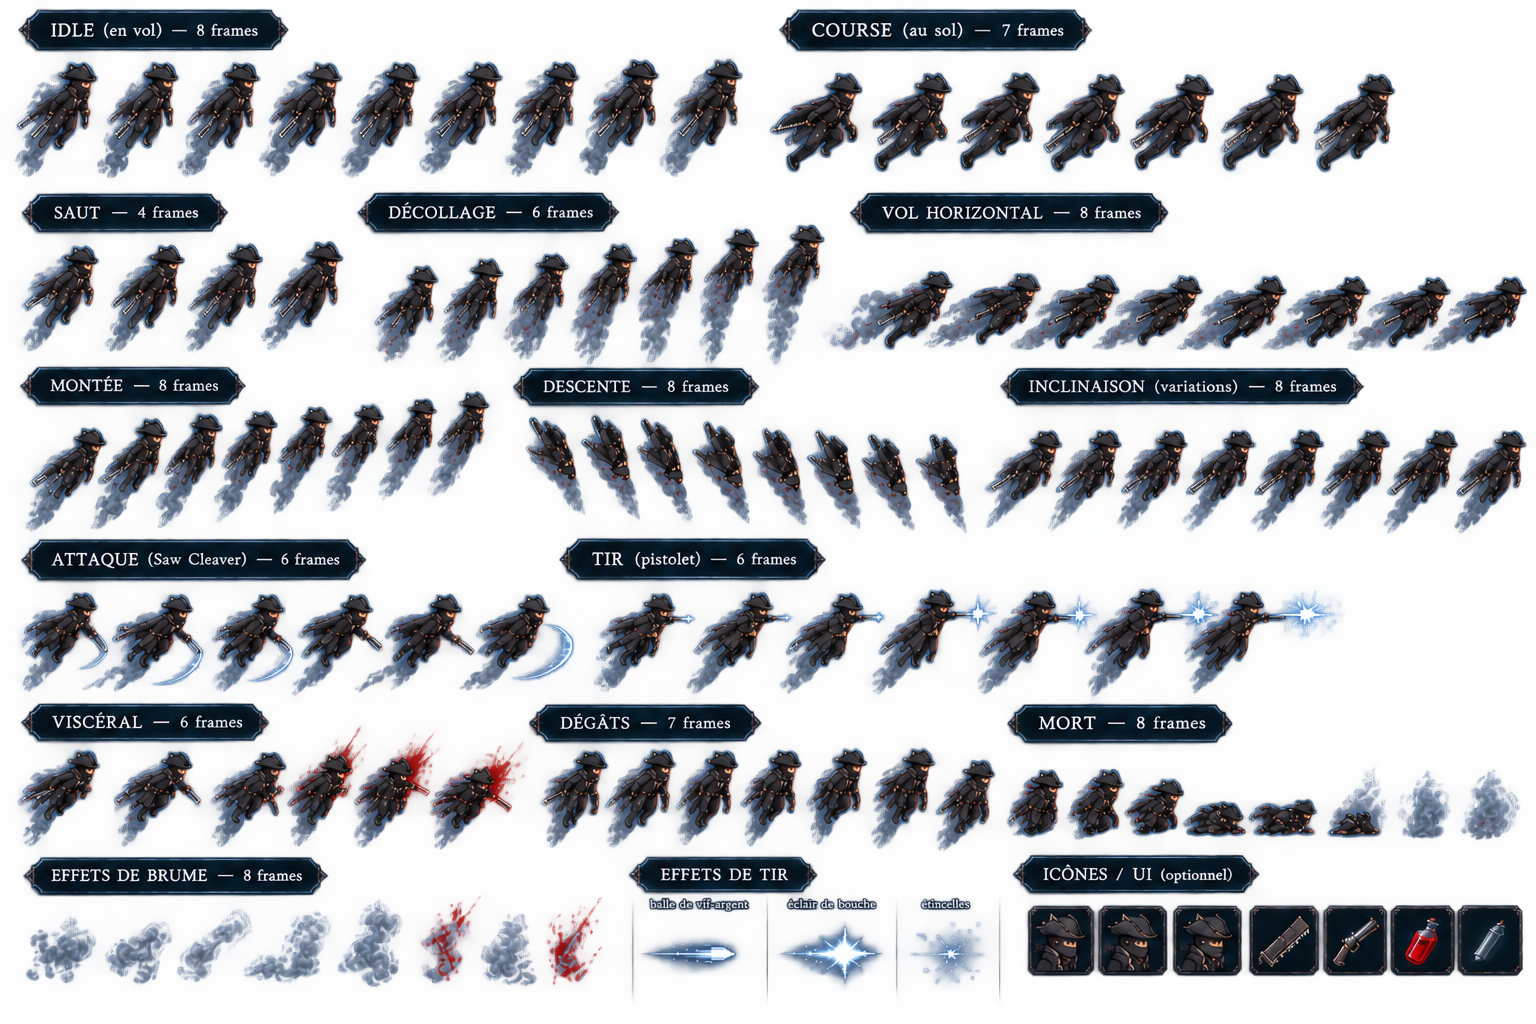
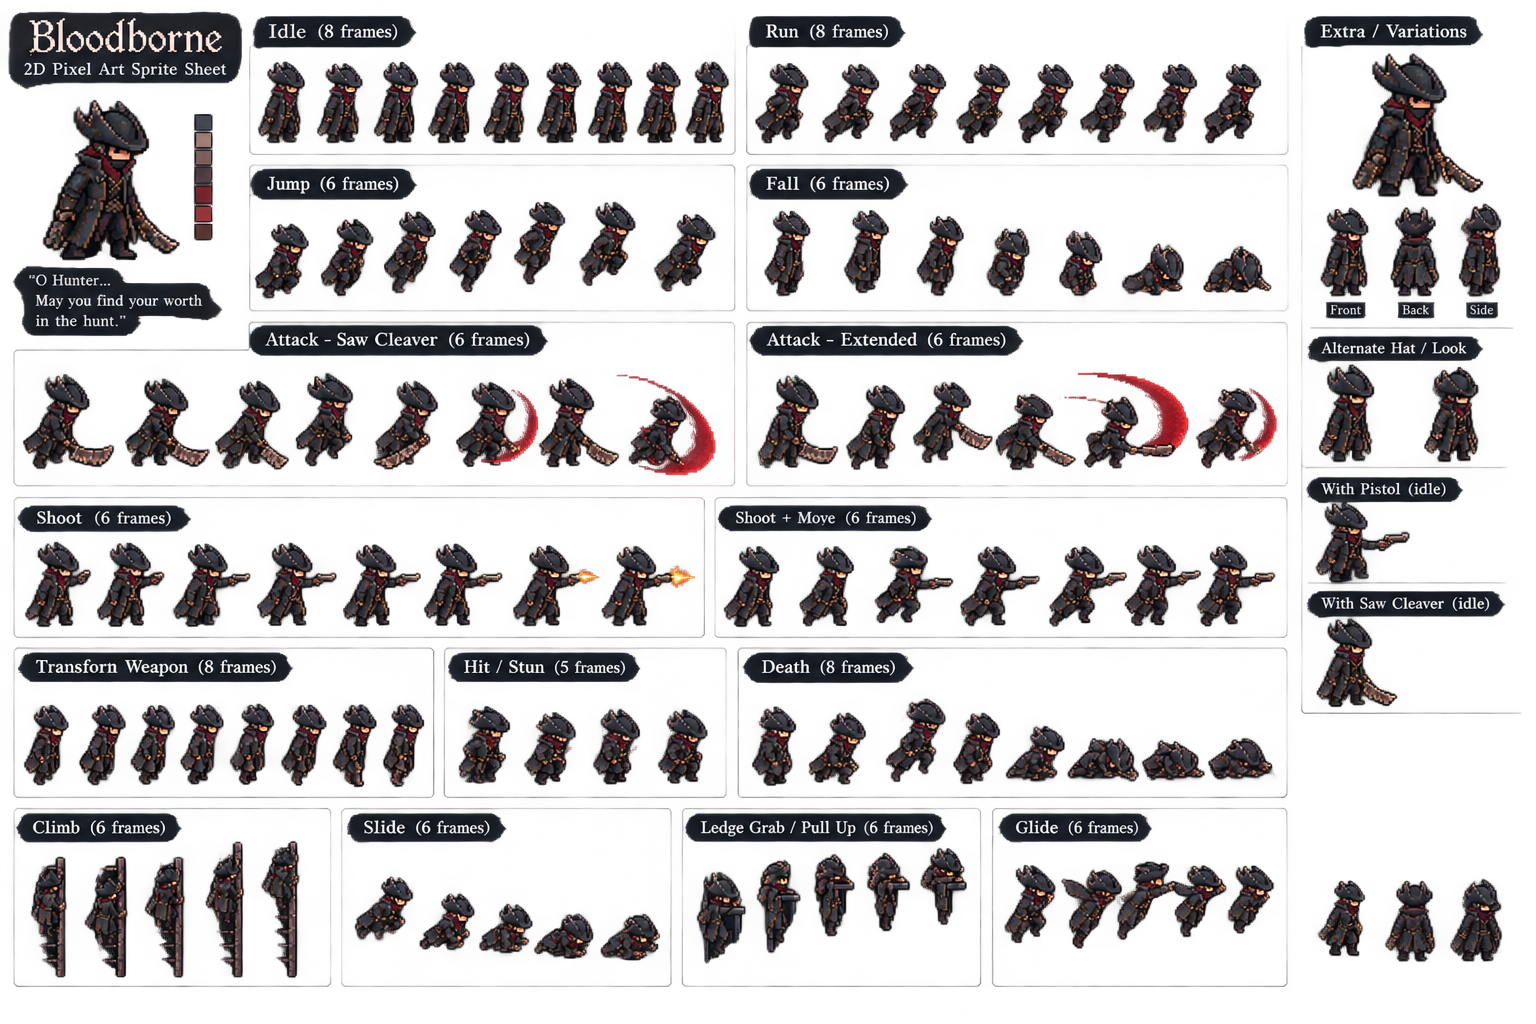
Hunter: the new Bloodborne sheet (jump to take off, glide to fly, attack and shoot rows scaled down to his size), and a trail of mist instead of jetpack flames

diff --git a/tools/slice_sheets.py b/tools/slice_sheets.py
@@ -26,7 +26,7 @@ SHADOW_ROWS = 12    # bottom rows of a region where ground shadows join the fram
 
 
 def animation(region, fps, ground=False, mode="loop", frames=None, effects_ahead=False, splits=(), cuts=None,
-              solo=False):
+              solo=False, scale=1):
     """One animation of a sheet.
 
     region:         box (x0, y0, x1, y1) holding the frames, labels left out
@@ -40,9 +40,10 @@ def animation(region, fps, ground=False, mode="loop", frames=None, effects_ahead
                     columns between boundaries; either the boundaries' x positions, or
                     ("seams", frame centres) to cut at the emptiest column between two centres
     solo:           with cuts, only the biggest blob of each column: a neighbour's trail is left out
+    scale:          frames resized by this, for a row drawn bigger than the others
     """
     return {"region": region, "fps": fps, "ground": ground, "mode": mode,
-            "frames": frames, "effects_ahead": effects_ahead, "splits": splits, "cuts": cuts, "solo": solo}
+            "frames": frames, "effects_ahead": effects_ahead, "splits": splits, "cuts": cuts, "solo": solo, "scale": scale}
 
 
 # Titan sheet: frames sit above their numbered labels, cut at the emptiest column between two
@@ -106,21 +107,20 @@ CHARACTERS = {
     # target.png: the glitch ring marking what her hack will hit
     }, {"effects": False, "erase": [(18, 358, 250, 382)], "crops": {"target.png": (24, 880, 132, 990)}}),
     # Titans charge at the player; Eren's titan is also the transformation power-up
-    # The Hunter's flight is mist, not flames; his rows touch (coat tails, mist), so most are cut by hand.
-    # "shoot": his pistol, the attack key held then released
-    "hunter": ("sources/hunter.png", (1030, 905, 1095, 972), {
-        "run":     animation((770, 60, 1420, 180), 12, ground=True),
-        "takeoff": animation((365, 225, 835, 365), 16, mode="once", cuts=("seams", [400, 470, 545, 610, 670, 730, 795])),
-        "rise":    animation((0, 400, 505, 535), 12, cuts=("seams", [60, 130, 190, 245, 305, 365, 415, 465])),
-        "hover":   animation((840, 255, 1536, 365), 12, solo=True,
-                             cuts=("seams", [905, 990, 1075, 1160, 1245, 1330, 1410, 1490])),
-        # His dive (DESCENTE) looks head first: he falls in his floating pose (IDLE)
-        "fall":    animation((0, 55, 760, 180), 10, cuts=("seams", [74, 156, 237, 312, 396, 472, 549, 630, 712])),
-        "death":   animation((1000, 755, 1536, 850), 10, mode="hide"),
-        "attack":  animation((0, 585, 580, 695), 16, mode="once", cuts=("seams", [55, 150, 245, 330, 420, 515])),
-        "shoot":   animation((585, 585, 1370, 695), 16, mode="once", cuts=[585, 692, 792, 885, 992, 1094, 1212, 1370]),
-    # The labels over the take-off and rise rows touch the first heads
-    }, {"erase": [(360, 195, 620, 234), (20, 365, 250, 407)]}),
+    # The Hunter's sheet is a platformer's: he takes off on its jump, flies gliding, falls without the
+    # landing; his mist is the game's exhaust particles (players.cpp). "shoot": his pistol, the attack
+    # key held then released.
+    "hunter": ("sources/hunter.png", (75, 95, 165, 185), {
+        "run":     animation((750, 55, 1295, 150), 12, ground=True),
+        "takeoff": animation((250, 200, 740, 302), 16, mode="once"),
+        "rise":    animation((995, 845, 1295, 955), 10, cuts=("seams", [1030, 1086, 1142, 1194, 1247])),
+        "hover":   animation((995, 845, 1295, 955), 10, cuts=("seams", [1030, 1086, 1142, 1194, 1247])),
+        "fall":    animation((750, 200, 1100, 302), 10, frames=[0, 1, 2, 3]),
+        "death":   animation((745, 688, 1295, 790), 10, mode="once"),
+        # Both drawn bigger than the rest: his hat is 40 and 37 px wide there, 34 when he runs
+        "attack":  animation((15, 365, 740, 480), 16, mode="once", effects_ahead=True, scale=34 / 40),
+        "shoot":   animation((15, 535, 715, 628), 16, mode="once", effects_ahead=True, scale=34 / 37),
+    }),
     "titan_female": ("sources/titans.png", None, {
         "run": animation((140, 350, 1536, 520), 14, ground=True, cuts=TITAN_CUTS),
     }, TITAN_SHEET),
@@ -170,6 +170,8 @@ def label_blobs(mask):
 DISPLAY_NAMES = {"johny": "JOHNNY"}
 # Colour of the exhaust particles the game adds under the jetpack (default neon yellow)
 EXHAUST = {"mikasa": "0 240 255", "jinx": "255 40 200", "lucy": "190 70 255", "hunter": "150 175 215"}
+# No jetpack: a trail of mist in the exhaust colour, the whole time they're in the air (players.cpp)
+MIST = {"hunter"}
 # Faces for the HUD, Doom style: (source, columns, rows) of an evenly laid grid of heads, read by game_hud.cpp
 FACES = {"mikasa": ("sources/mikasa_faces.png", 9, 6), "jinx": ("sources/jinx_faces.png", 9, 6)}
 
@@ -333,6 +335,9 @@ def slice_character(name, sheet_name, portrait_box, animations, options, debug_d
     frames = {}
     for anim, spec in animations.items():
         found = [crop_frame(sheet, box, mask) for box, mask in find_frames(pixels, spec, effects)]
+        if spec["scale"] != 1:
+            found = [f.resize((round(f.width * spec["scale"]), round(f.height * spec["scale"])), Image.NEAREST)
+                     for f in found]
         if options.get("mirror"):
             found = [ImageOps.mirror(frame) for frame in found]
         frames[anim] = [found[i] for i in spec["frames"]] if spec["frames"] else found
@@ -378,6 +383,8 @@ def slice_character(name, sheet_name, portrait_box, animations, options, debug_d
              f"frame {cell_w} {cell_h}", f"feet {feet_y}", f"body {body}"]
     if name in EXHAUST:
         lines.append(f"exhaust {EXHAUST[name]}")
+    if name in MIST:
+        lines.append("mist")
     if name in FACES:
         source, columns, rows = FACES[name]
         slice_faces(source, columns, rows, out)

diff --git a/src/client/render/players.cpp b/src/client/render/players.cpp
@@ -31,15 +31,23 @@ void Players::draw(const std::map<int, PlayerState> &players, int me, bool live)
         drawPlayer(me, mine->second, true);
 }
 
-// Exhaust stays in the world, so it trails behind as the player runs
+// Exhaust stays in the world, so it trails behind as the player runs. The Hunter has no jetpack: his
+// coat fades into mist, slow puffs drifting up behind him the whole time he's off the ground, thicker
+// as he climbs.
 void Players::emitExhaust(const std::map<int, PlayerState> &players)
 {
     for (const auto &[player_num, player] : players) {
+        const Character &character = sprites.character(run.characterOf(player_num));
         sf::Vector2f nozzle = run.display_positions[player_num] + sf::Vector2f(0.25f, 1.55f);
         bool flying = player.form == Form::Normal || player.form == Form::Emerging;
+        bool airborne = !run.player_anims[player_num].on_ground;
 
-        if (flying && player.jet_active) {
-            particles.emit(nozzle, 2, sprites.character(run.characterOf(player_num)).exhaust, 1.5f, 0.35f, 0, {0, 8});
+        if (flying && character.mist && (player.jet_active || airborne)) {
+            sf::Vector2f coat = run.display_positions[player_num] + sf::Vector2f(0.35f, randf(1.0f, 1.9f));
+            particles.emit(coat, player.jet_active ? 3 : 1, character.exhaust, 0.8f, 0.7f, -1.5f, {-1.5f, 0});
+            particles.emit(coat, 1, sf::Color(70, 80, 100), 0.6f, 0.9f, -1.0f, {-1.0f, 0});
+        } else if (flying && player.jet_active) {
+            particles.emit(nozzle, 2, character.exhaust, 1.5f, 0.35f, 0, {0, 8});
             particles.emit(nozzle, 1, NEON_ORANGE, 2.5f, 0.25f, 0, {0, 6});
         }
     }

diff --git a/src/client/characters.hpp b/src/client/characters.hpp
@@ -30,6 +30,7 @@ struct Character {
     float feet = 0;     // y of the feet inside a cell
     float body = 1;     // standing height in pixels, scaled to the player's hitbox
     sf::Color exhaust{252, 238, 10};
+    bool mist = false;  // no jetpack flames: a trail of mist in the exhaust colour (the Hunter)
 
     Animation run, takeoff, rise, hover, fall, death, attack;
     Animation shoot;            // the Hunter's pistol, his attack being the cleaver

diff --git a/src/client/characters.cpp b/src/client/characters.cpp
@@ -60,6 +60,8 @@ bool Character::load(const std::string &dir)
             int r, g, b;
             meta >> r >> g >> b;
             exhaust = sf::Color(r, g, b);
+        } else if (key == "mist") {
+            mist = true;
         } else if (animations.count(key)) {
             Animation &anim = *animations[key];
             std::string mode;

diff --git a/docs/IDEAS.md b/docs/IDEAS.md
@@ -30,11 +30,12 @@ He makes you rush drones instead of dodging them. Played once (v2.9), not good e
 animations, flat gameplay. What to improve:
 
 **Looks**
-- A new sheet, from Alex or from ChatGPT one row at a time: the Hunter is small and dark, take-off,
-  rise and flight barely differ, the mist melts into his body, and the dive (DESCENTE) was so ugly he
-  falls in his floating pose (IDLE) for now.
+- New sheet in (the platformer one): he takes off on its jump, flies on its glide, and his mist is
+  drawn by the game as particles. It has no flight of its own: a row of him floating forward, coat
+  dissolving into mist, would beat the glide. Its attack and shoot rows are drawn bigger, shrunk to fit.
 - His faces sheet, for the HUD's living face (only the portrait shows).
-- The visceral: the sheet has its row (VISCÉRAL), the game still plays the plain cut.
+- Unused rows that could serve: Attack Extended (a longer cut, for a bigger cleaver or the visceral),
+  Hit/Stun (when his shield breaks), Shoot + Move.
 - A staggered titan shows nothing but a puff of silver: it should kneel or flash, so you know it's
   open for the cut.
 
